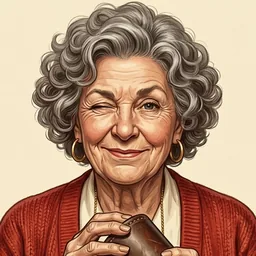
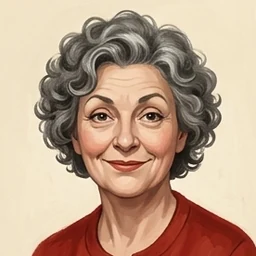
v9.5: the five computer players repainted in the café style
Mala Ema, Nono Bepi, Teta Mira, Kum Joza and Profesor, painted to match
the twelve regulars.

Claude-Session: https://claude.ai/code/session_019mK15Dy8g63fWkZK53MFq7

diff --git a/index.html b/index.html
@@ -787,15 +787,15 @@ button.pressing:not(:disabled){scale:.95;filter:brightness(.93);transition-durat
 })();
 </script>
 <script src="https://cdn.jsdelivr.net/npm/peerjs@1.5.5/dist/peerjs.min.js" defer></script>
-<script src="engine.js?v=94"></script>
-<script src="ai.js?v=94"></script>
-<script src="i18n.js?v=94"></script>
-<script src="audio.js?v=94"></script>
-<script src="music.js?v=94"></script>
-<script src="fx.js?v=94"></script>
-<script src="scan.js?v=94"></script>
-<script src="vendor/supabase.js?v=94" async onload="window.JambCloud&&JambCloud.boot()"></script>
-<script src="cloud.js?v=94"></script>
-<script src="app.js?v=94"></script>
+<script src="engine.js?v=95"></script>
+<script src="ai.js?v=95"></script>
+<script src="i18n.js?v=95"></script>
+<script src="audio.js?v=95"></script>
+<script src="music.js?v=95"></script>
+<script src="fx.js?v=95"></script>
+<script src="scan.js?v=95"></script>
+<script src="vendor/supabase.js?v=95" async onload="window.JambCloud&&JambCloud.boot()"></script>
+<script src="cloud.js?v=95"></script>
+<script src="app.js?v=95"></script>
 </body>
 </html>

diff --git a/sw.js b/sw.js
@@ -1,7 +1,7 @@
 /* Keeps Yamb Café working offline: the app shell is cached, and the latest version is fetched whenever there is a connection. */
-const CACHE = 'jamb-v9.4';
+const CACHE = 'jamb-v9.5';
 const CORE = [
-  './', 'index.html', 'engine.js?v=94', 'ai.js?v=94', 'i18n.js?v=94', 'audio.js?v=94', 'music.js?v=94', 'fx.js?v=94', 'scan.js?v=94', 'vendor/supabase.js?v=94', 'cloud.js?v=94', 'app.js?v=94', 'manifest.webmanifest',
+  './', 'index.html', 'engine.js?v=95', 'ai.js?v=95', 'i18n.js?v=95', 'audio.js?v=95', 'music.js?v=95', 'fx.js?v=95', 'scan.js?v=95', 'vendor/supabase.js?v=95', 'cloud.js?v=95', 'app.js?v=95', 'manifest.webmanifest',
   'icons/v7/icon-192.png', 'icons/v7/apple-touch-icon.png', 'icons/v7/favicon-64.png',
   'art/cafe-800.webp', 'art/cafe-1280.webp', 'art/cafe-800.jpg', 'art/menucard.webp', 'art/tray.webp', 'art/saucer.webp', 'art/wood-768.webp', 'art/winner-800.webp', 'art/daily-800.webp',
   'art/cast/ema.webp', 'art/cast/nono.webp', 'art/cast/mira.webp', 'art/cast/joza.webp', 'art/cast/profesor.webp',

diff --git a/app.js b/app.js
@@ -4,7 +4,7 @@
 const E=window.JambEngine,AI=window.JambAI,A=window.JambAudio,SC=window.JambScan,I=window.JambI18n;
 const FX=window.JambFX,LAND_STEP=55;
 const ROWS=E.ROWS,UPPER=E.UPPER,LOWER=E.LOWER;
-const VERSION='v9.4';
+const VERSION='v9.5';
 const FACE={1:[4],2:[2,6],3:[2,4,6],4:[0,2,6,8],5:[0,2,4,6,8],6:[0,2,3,5,6,8]};
 const PCOL=['#1F3FA6','#C8322B','#2E7D4F','#6B3FA0','#B5651D','#1A7F8C'];
 const PCOL_LITE=['#9FB4FF','#FF9A8E','#8FD9AE','#C9A8F0','#F2B27A','#86D6E0'];
